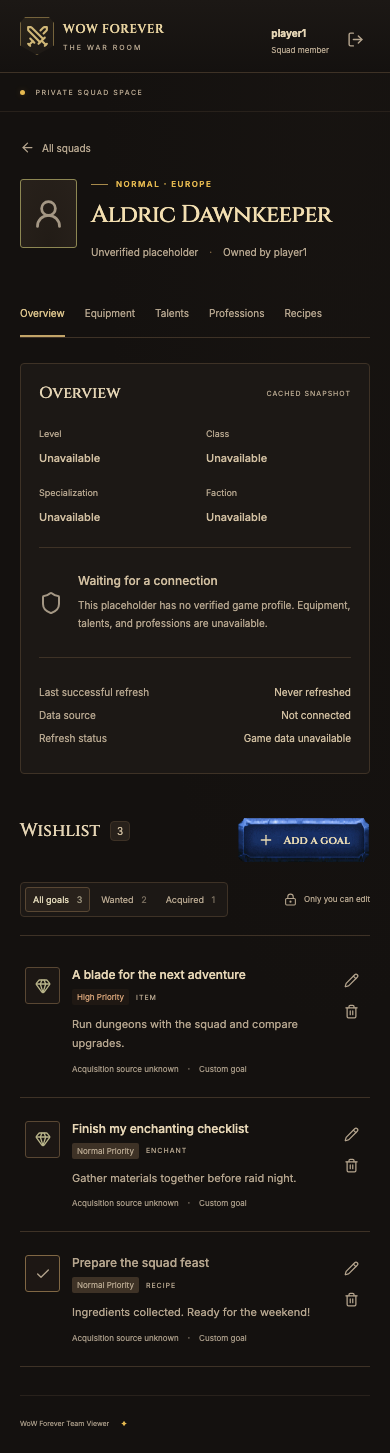
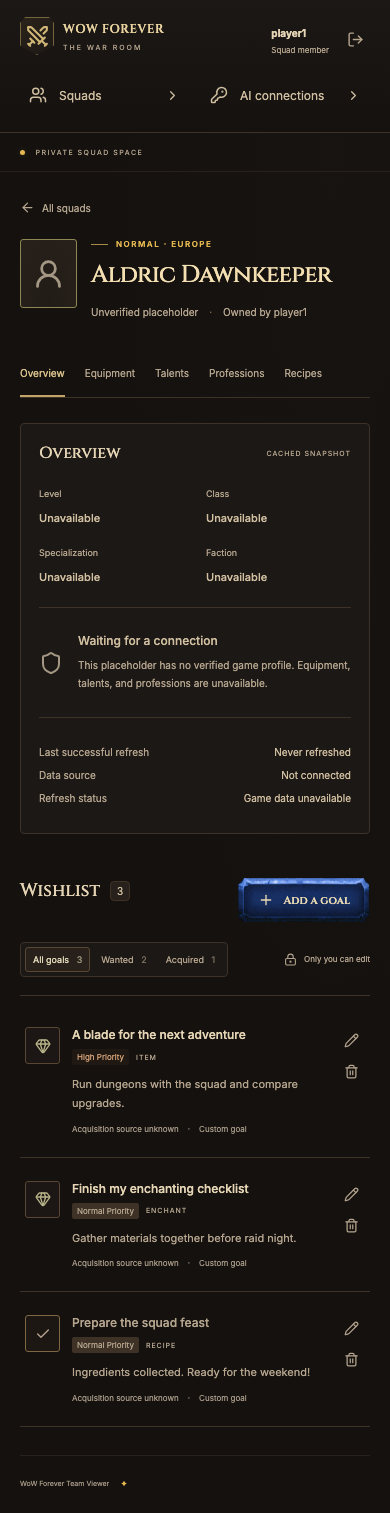
Refresh UI screenshots and showcase MCP connections

diff --git a/scripts/capture-ui.spec.ts b/scripts/capture-ui.spec.ts
@@ -8,7 +8,8 @@ import { mondayOf, localDateTime, localTimeCandidates, addDays } from "../src/li
 // Fictional demo content, written only to the disposable E2E database.
 function seedDemo() {
   const quote = (value: string) => `'${value.replaceAll("'", "''")}'`;
-  const sql: string[] = [];
+  // Replace generic E2E fixtures with presentation-ready demo content.
+  const sql: string[] = ["DELETE FROM squads;", "DELETE FROM characters;"];
   const squads = [
     ["night-watch", "The Night Watch", "eu", "normal"],
     ["stormguard", "Stormguard", "us", "pvp"],
@@ -88,6 +89,21 @@ test("capture README and social screenshots", async ({ browser }) => {
   await expect(player.getByRole("heading", { name: "A blade for the next adventure" })).toBeVisible();
   expect(await player.evaluate(() => document.documentElement.scrollWidth <= window.innerWidth)).toBe(true);
   await capture(player, "wishlist-mobile", true);
+  await player.setViewportSize({ width: 1440, height: 1000 });
+  await player.getByRole("link", { name: "AI connections", exact: true }).click();
+  await expect(player.getByRole("heading", { name: "AI connections", exact: true })).toBeVisible();
+  await player.getByRole("button", { name: "Create token", exact: true }).click();
+  await player.getByLabel("Connection name", { exact: true }).fill("My desktop assistant");
+  await player.getByRole("checkbox", { name: "Edit my characters’ wishlists", exact: true }).check();
+  await player.getByRole("checkbox", { name: "Manage my availability", exact: true }).check();
+  await capture(player, "create-ai-connection");
+  await player.getByRole("dialog").getByRole("button", { name: "Create token", exact: true }).click();
+  await expect(player.getByRole("heading", { name: "Token created", exact: true })).toBeVisible();
+  await player.getByRole("button", { name: "Done", exact: true }).click();
+  await expect(player.getByRole("dialog")).toHaveCount(0);
+  await expect(player.getByRole("heading", { name: "My desktop assistant", exact: true })).toBeVisible();
+  await expect(player.getByLabel("Generated MCP token", { exact: true })).toHaveCount(0);
+  await capture(player, "ai-connections-desktop", true);
   await admin.close();
   await player.close();
 });

diff --git a/README.md b/README.md
@@ -18,6 +18,10 @@ Screenshots use fictional demo squads, unverified character placeholders, and cu
 
 <img src="docs/media/wishlist-mobile.png" alt="Character wishlist on mobile" width="390" />
 
+![Personal AI connections and token permissions](docs/media/ai-connections-desktop.png)
+
+![Creating an AI connection with wishlist and availability permissions](docs/media/create-ai-connection.png)
+
 Full-resolution PNGs are in [docs/media](docs/media) for README use and social posts. Regenerate them with `pnpm exec playwright install chromium` followed by `pnpm media:capture`. The capture command starts a local server on port 3100 and resets only the disposable `.wrangler/e2e` database; do not run it alongside browser tests. Login keys are never included in screenshots.
 
 ## Squad regions
